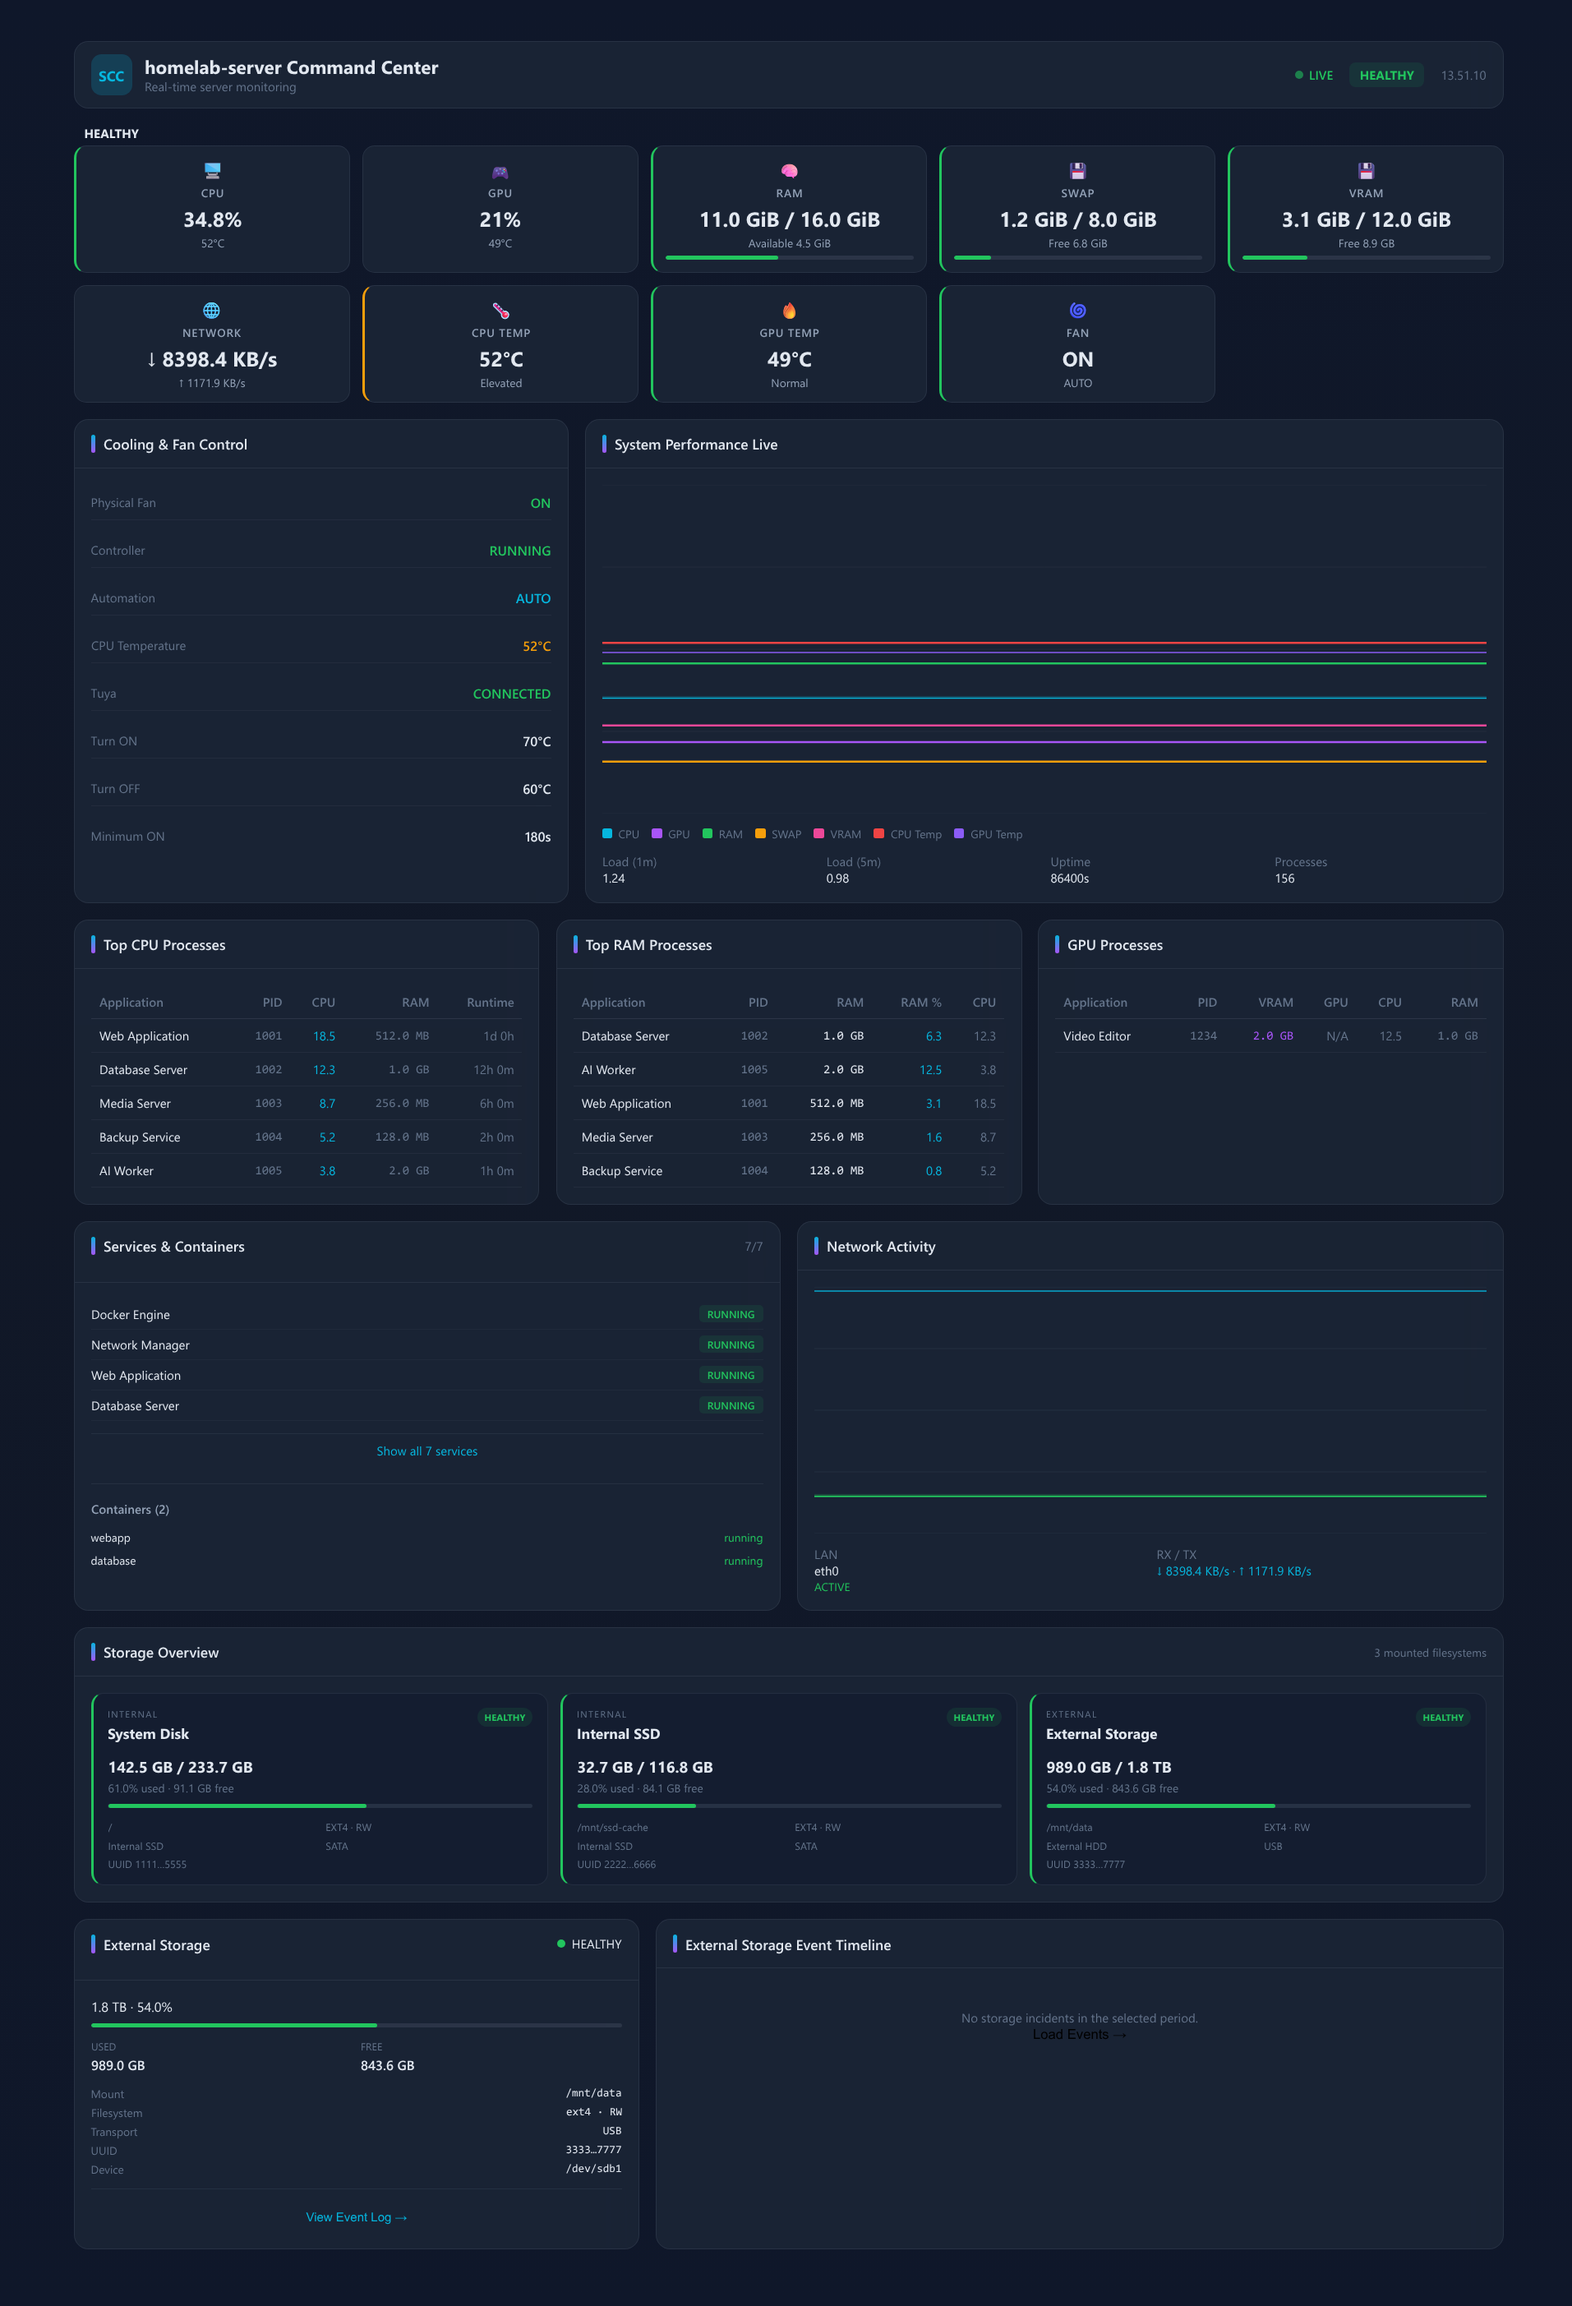
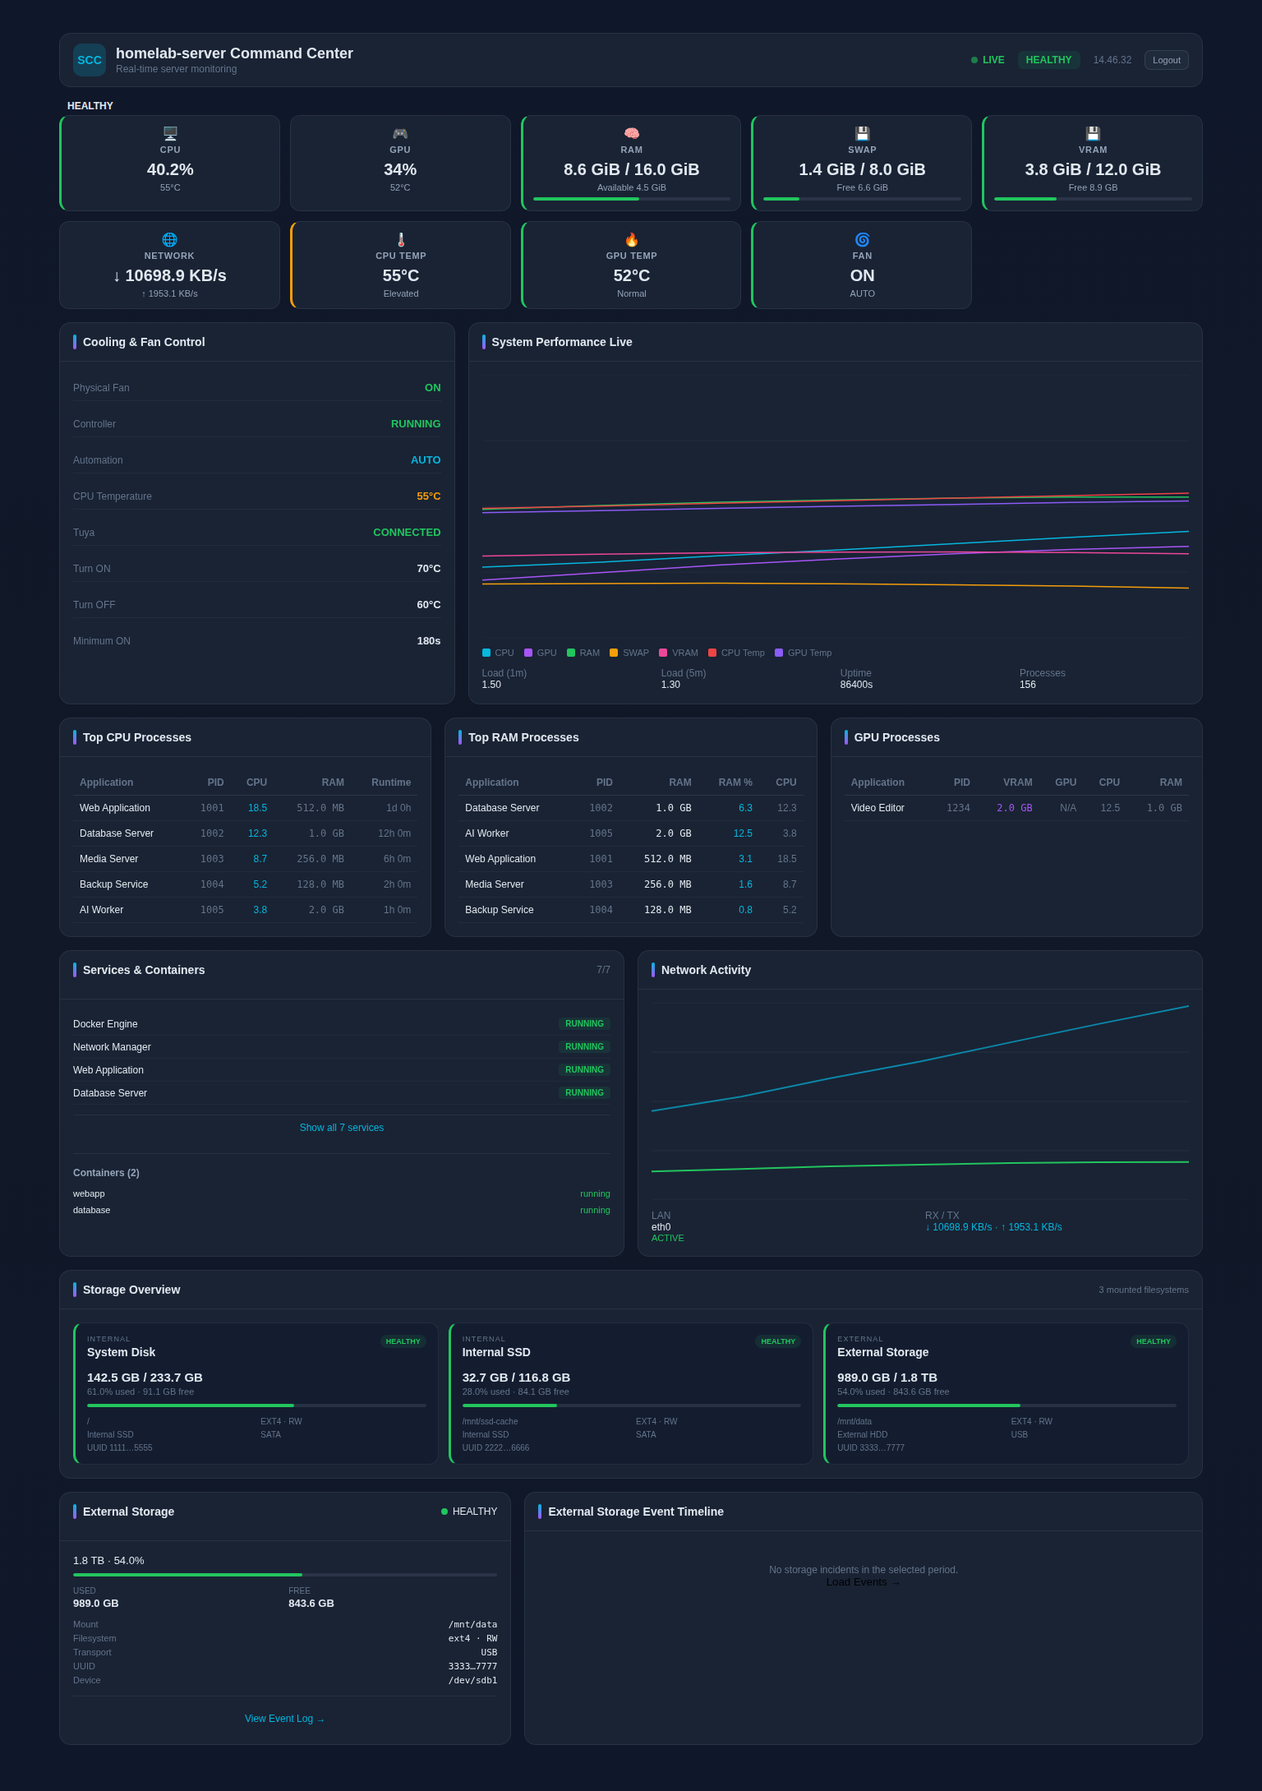
chore: genericize remaining host-specific strings in tests
- tests: replace host-specific mount path, PID and 'ACASIS' code comment with
  generic example values so the public source carries no production identity

diff --git a/frontend/src/App.tsx b/frontend/src/App.tsx
@@ -962,7 +962,7 @@ const ServicesCard: React.FC<{ data: WebSocketData | null }> = ({ data }) => {
   );
 };
 
-// --- ACASISEventLog ---
+// --- ExternalStorageEventLog ---
 
 const AcasisEventLog: React.FC<{
   events: StorageEvent[];
@@ -1263,7 +1263,7 @@ class ErrorBoundary extends Component<ErrorBoundaryProps, ErrorBoundaryState> {
 
 function App() {
   const isDemo = new URLSearchParams(window.location.search).get("demo") === "1";
-  const [auth, setAuth] = useState<AuthState>({ checked: isDemo, enabled: !isDemo, configured: false, authenticated: isDemo, username: isDemo ? "demo" : null });
+  const [auth, setAuth] = useState<AuthState>({ checked: isDemo, enabled: true, configured: false, authenticated: isDemo, username: isDemo ? "demo" : null });
   const [wsData, setWsData] = useState<WebSocketData | null>(null);
   const [wsConnected, setWsConnected] = useState(false);
   const [wsError, setWsError] = useState<string | null>(null);

diff --git a/backend/app/main.py b/backend/app/main.py
@@ -392,7 +392,7 @@ async def demo_snapshot() -> dict:
     import time as _time
 
     now = _time.time()
-    return {
+    snap = {
         "cpu": {
             "percent": {"value": 34.8, "supported": True, "unit": "%"},
             "per_core": [
@@ -784,6 +784,71 @@ async def demo_snapshot() -> dict:
             "nvml_available": True,
         },
     }
+
+    # Deterministic time-varying telemetry: the frontend polls /api/demo a few
+    # times to populate its rolling charts, so the scalar metrics follow a smooth
+    # sinusoid (period ~24 s). Values stay reproducible for any wall-clock time
+    # and remain clearly synthetic; nothing here reflects the real host.
+    import math as _math
+
+    def _wave(base: float, amp: float, phase: float, period: float = 24.0) -> float:
+        return round(base + amp * _math.sin(2 * _math.pi * (now / period) + phase), 1)
+
+    def _gib(n: float) -> str:
+        return f"{n / 1073741824.0:.1f} GiB"
+
+    _cpu = snap["cpu"]
+    _cpu["percent"]["value"] = _wave(34.8, 12.0, 0.0)
+    for _i, _core in enumerate(_cpu.get("per_core", [])):
+        _core["value"] = _wave(34.0, 10.0, _i * 0.7)
+    _la = _cpu.get("load_average")
+    if _la:
+        _la["1m"] = round(_wave(1.24, 0.6, 0.0), 2)
+        _la["5m"] = round(_wave(0.98, 0.35, 0.5), 2)
+        _la["15m"] = round(_wave(0.76, 0.2, 1.0), 2)
+
+    _ram = snap["memory"]["ram"]
+    _ram_pct = _wave(45.6, 8.0, 1.2)
+    _ram["percent"]["value"] = _ram_pct
+    _ram["used_bytes"] = int(_ram["total_bytes"] * _ram_pct / 100.0)
+    _ram["free_bytes"] = _ram["total_bytes"] - _ram["used_bytes"]
+    _ram["human"]["used"] = _gib(_ram["used_bytes"])
+    _ram["human"]["free"] = _gib(_ram["free_bytes"])
+
+    _swap = snap["memory"]["swap"]
+    _swap_pct = _wave(15.0, 5.0, 2.0)
+    _swap["percent"]["value"] = _swap_pct
+    _swap["used_bytes"] = int(_swap["total_bytes"] * _swap_pct / 100.0)
+    _swap["free_bytes"] = _swap["total_bytes"] - _swap["used_bytes"]
+    _swap["human"]["used"] = _gib(_swap["used_bytes"])
+    _swap["human"]["free"] = _gib(_swap["free_bytes"])
+
+    _gpu = snap["gpu"]
+    _gpu["utilization"]["value"] = _wave(21.0, 14.0, 0.8)
+    _vram_pct = _wave(26.2, 6.0, 1.6)
+    _gpu["memory"]["percent"]["value"] = _vram_pct
+    _gpu["memory"]["used_bytes"] = int(_gpu["memory"]["total_bytes"] * _vram_pct / 100.0)
+    _gpu["temperature"]["value"] = _wave(49.0, 4.0, 0.4)
+
+    _temp = snap["temperature"]
+    _temp["cpu"]["package_c"] = _wave(52.0, 5.0, 0.2)
+    for _i, _core in enumerate(_temp["cpu"].get("cores", [])):
+        _core["celsius"] = _wave(52.0, 5.0, 0.2 + _i * 0.3)
+
+    _net = snap["network"]
+    _rx = _wave(8600000.0, 5200000.0, 0.0)
+    _tx = _wave(1200000.0, 800000.0, 1.1)
+    _net["lan"]["rx_bytes_per_sec"] = _rx
+    _net["lan"]["tx_bytes_per_sec"] = _tx
+    if _net.get("wifi"):
+        _net["wifi"]["rx_bytes_per_sec"] = 0.0
+        _net["wifi"]["tx_bytes_per_sec"] = 0.0
+    _net["totals"]["rx_bytes_per_sec"] = _rx
+    _net["totals"]["tx_bytes_per_sec"] = _tx
+
+    snap["fan"]["cpu_temp"] = _temp["cpu"]["package_c"]
+
+    return snap
 
 
 def _json_default(obj: Any) -> Any:

diff --git a/backend/tests/test_network_history_fan.py b/backend/tests/test_network_history_fan.py
@@ -150,12 +150,12 @@ class TestHistoryBuffer:
 
 
 # Representative journal excerpt from cpu-fan-controller.service.
-JOURNAL = """2026-10-05T06:08:59+00:00 homelab-server python[981930]: 2026-10-05 06:08:59,692 WARNING CPU 71.0C >= 70.0C: turning FAN ON
-2026-10-05T06:09:01+00:00 homelab-server python[981930]: 2026-10-05 06:09:01,312 INFO FAN confirmed ON
-2026-10-05T06:10:00+00:00 homelab-server python[981930]: 2026-10-05 06:10:00,000 INFO CPU=55.0C FAN=ON
-2026-10-05T06:12:08+00:00 homelab-server python[981930]: 2026-10-05 06:12:08,709 INFO CPU 49.0C <= 60.0C: turning FAN OFF
-2026-10-05T06:12:10+00:00 homelab-server python[981930]: 2026-10-05 06:12:10,240 INFO FAN confirmed OFF
-2026-10-05T10:07:17+00:00 homelab-server python[981930]: 2026-10-05 10:07:17,596 INFO CPU=57.0C FAN=OFF
+JOURNAL = """2026-10-05T06:08:59+00:00 homelab-server python[4242]: 2026-10-05 06:08:59,692 WARNING CPU 71.0C >= 70.0C: turning FAN ON
+2026-10-05T06:09:01+00:00 homelab-server python[4242]: 2026-10-05 06:09:01,312 INFO FAN confirmed ON
+2026-10-05T06:10:00+00:00 homelab-server python[4242]: 2026-10-05 06:10:00,000 INFO CPU=55.0C FAN=ON
+2026-10-05T06:12:08+00:00 homelab-server python[4242]: 2026-10-05 06:12:08,709 INFO CPU 49.0C <= 60.0C: turning FAN OFF
+2026-10-05T06:12:10+00:00 homelab-server python[4242]: 2026-10-05 06:12:10,240 INFO FAN confirmed OFF
+2026-10-05T10:07:17+00:00 homelab-server python[4242]: 2026-10-05 10:07:17,596 INFO CPU=57.0C FAN=OFF
 """
 
 CONTROLLER_SOURCE = """
@@ -186,7 +186,7 @@ class TestFanJournalParsing:
 
     def test_detects_errors(self):
         err = JOURNAL + (
-            "2026-10-05T10:10:00+00:00 homelab-server python[981930]: "
+            "2026-10-05T10:10:00+00:00 homelab-server python[4242]: "
             "2026-10-05 10:10:00,000 ERROR Connection reset by peer\n"
         )
         assert parse_journal(err)["recent_errors"]
@@ -199,7 +199,7 @@ class TestFanJournalParsing:
     def test_never_exposes_the_local_key(self):
         """The parser must not surface credential values."""
         poisoned = JOURNAL + (
-            "2026-10-05T10:11:00+00:00 homelab-server python[981930]: "
+            "2026-10-05T10:11:00+00:00 homelab-server python[4242]: "
             "2026-10-05 10:11:00,000 ERROR auth failed key=abcdef123456789\n"
         )
         state = parse_journal(poisoned)

diff --git a/backend/tests/test_services_parser.py b/backend/tests/test_services_parser.py
@@ -17,7 +17,7 @@ from app.collectors.services import (
 )
 
 # Representative two-unit output from homelab-server.
-MULTI = """MainPID=981930
+MULTI = """MainPID=4242
 NRestarts=0
 ExecMainStartTimestamp=Fri 2026-10-02 10:49:54 UTC
 MemoryCurrent=5005312
@@ -42,7 +42,7 @@ SubState=running
 ActiveEnterTimestamp=2026-10-02 03:30:11 UTC
 """
 
-SINGLE = """MainPID=981930
+SINGLE = """MainPID=4242
 NRestarts=0
 Id=cpu-fan-controller.service
 LoadState=loaded
@@ -54,7 +54,7 @@ SubState=running
 class TestParseShowProperties:
     def test_single_unit(self):
         props = parse_show_properties(SINGLE)
-        assert props["MainPID"] == "981930"
+        assert props["MainPID"] == "4242"
         assert props["Id"] == "cpu-fan-controller.service"
         assert props["ActiveState"] == "active"
 
@@ -71,7 +71,7 @@ class TestParseShowBlocks:
         docker = blocks["docker.service"]
 
         # The critical assertion: PIDs must NOT be swapped between units.
-        assert fan["MainPID"] == "981930"
+        assert fan["MainPID"] == "4242"
         assert docker["MainPID"] == "622626"
 
         assert fan["Description"] == "CPU Temperature Tuya Fan Controller"

diff --git a/backend/tests/test_processes.py b/backend/tests/test_processes.py
@@ -133,7 +133,7 @@ class TestRedactionInCmdlines:
             "--port",
             "58923",
             "--model",
-            "/mnt/ssd-turbo/models/Qwen3.5-2B-Q4_K_M.gguf",
+            "/mnt/data/models/example-model.gguf",
         ]
         out = redact_cmdline(argv)
         assert out == argv

diff --git a/backend/tests/test_redaction.py b/backend/tests/test_redaction.py
@@ -68,7 +68,7 @@ class TestRedactCmdline:
             "--port",
             "58923",
             "--model",
-            "/mnt/ssd-turbo/models/Qwen3.5-2B-Q4_K_M.gguf",
+            "/mnt/data/models/example-model.gguf",
         ]
         out = redact_cmdline(argv)
 
